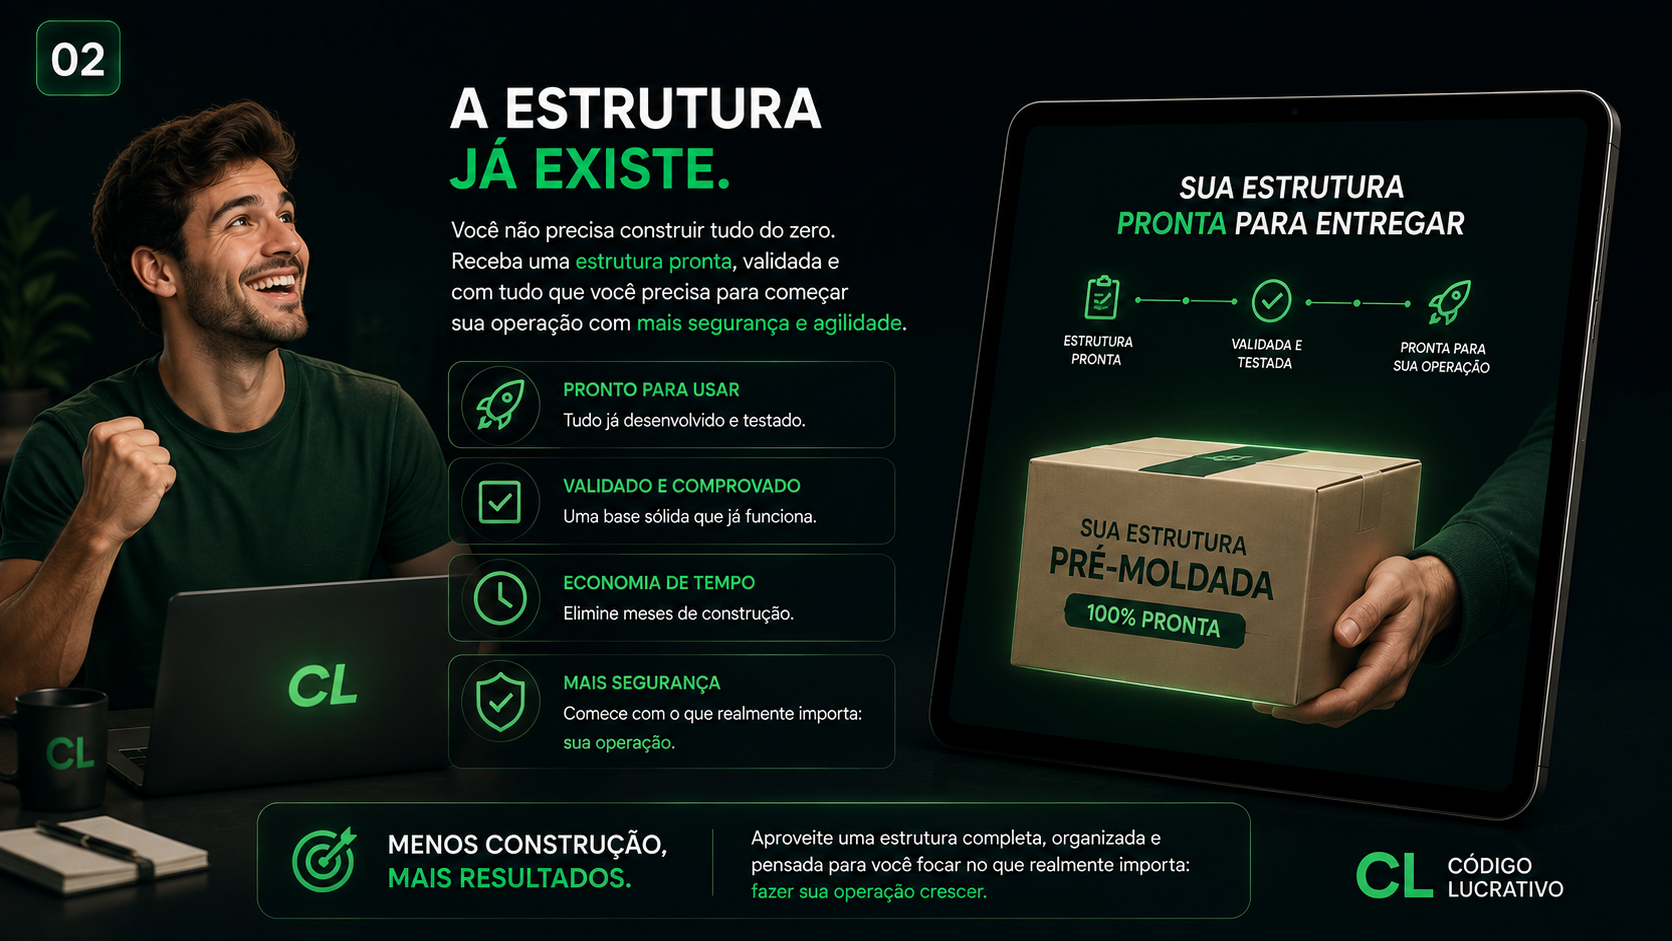
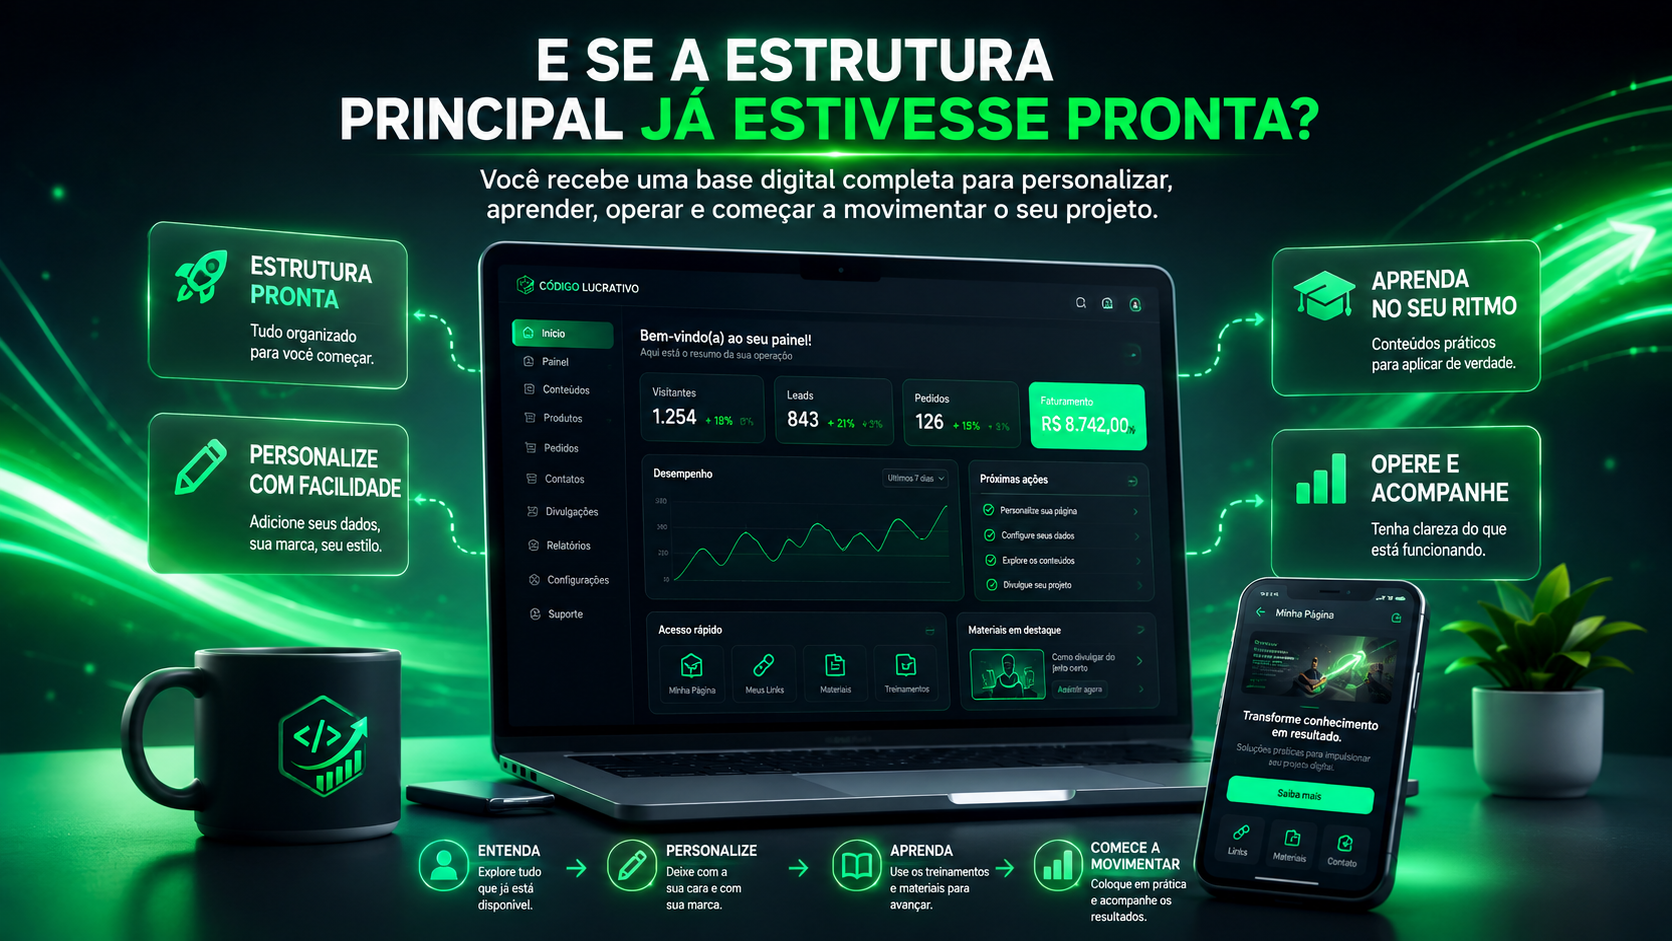
fix: repair dev image uploads and sync sales assets

diff --git a/server/demoAuth.ts b/server/demoAuth.ts
@@ -1,10 +1,10 @@
-import { randomUUID } from "node:crypto";
+import { createHmac, timingSafeEqual } from "node:crypto";
 import { z } from "zod";
 import type { User } from "../drizzle/schema";
 import { getStoredPasswordHashByOpenId } from "./db";
 import { hashDemoCredential, hashPassword, hashesMatch } from "./credentialHash";
 
-export const DEMO_SESSION_COOKIE_NAME = "pl_demo_session";
+export const DEMO_SESSION_COOKIE_NAME = process.env.VITE_DEV_PREFIX ? "pl_demo_session_dev" : "pl_demo_session";
 
 export const demoLoginInputSchema = z.object({
   username: z.string().trim().min(1, "Informe o usuário.").max(64),
@@ -19,13 +19,14 @@ export type DemoAccount = {
   role: "admin" | "user";
 };
 
-type DemoSession = {
-  account: DemoAccount;
+type DemoSessionPayload = {
+  openId: string;
+  role: DemoAccount["role"];
   expiresAt: number;
 };
 
 const DEMO_SESSION_DURATION_MS = 1000 * 60 * 60 * 12;
-const activeDemoSessions = new Map<string, DemoSession>();
+const DEMO_SESSION_SECRET = process.env.JWT_SECRET || "pagina-lucrativa-local-demo-session";
 
 type StoredDemoAccount = DemoAccount & { credentialHash: string };
 
@@ -47,6 +48,29 @@ const demoAccounts: StoredDemoAccount[] = [
[1 lines of base64/hex data omitted]
   },
 ];
+
+function signSessionPayload(payload: DemoSessionPayload) {
+  const encodedPayload = Buffer.from(JSON.stringify(payload)).toString("base64url");
+  const signature = createHmac("sha256", DEMO_SESSION_SECRET).update(encodedPayload).digest("base64url");
+  return `${encodedPayload}.${signature}`;
+}
+
+function readSessionPayload(token: string): DemoSessionPayload | null {
+  const [encodedPayload, encodedSignature] = token.split(".");
+  if (!encodedPayload || !encodedSignature) return null;
+
+  const expectedSignature = createHmac("sha256", DEMO_SESSION_SECRET).update(encodedPayload).digest();
+  const receivedSignature = Buffer.from(encodedSignature, "base64url");
+  if (receivedSignature.length !== expectedSignature.length || !timingSafeEqual(receivedSignature, expectedSignature)) return null;
+
+  try {
+    const payload = JSON.parse(Buffer.from(encodedPayload, "base64url").toString("utf8")) as Partial<DemoSessionPayload>;
+    if (typeof payload.openId !== "string" || (payload.role !== "admin" && payload.role !== "user") || typeof payload.expiresAt !== "number" || payload.expiresAt <= Date.now()) return null;
+    return payload as DemoSessionPayload;
+  } catch {
+    return null;
+  }
+}
 
 export async function resolveDemoAccount(username: string, password: string): Promise<DemoAccount | null> {
   const normalizedUsername = username.trim().toLowerCase();
@@ -78,21 +102,17 @@ export function toDemoUser(account: DemoAccount): User {
 }
 
 export function createDemoSession(account: DemoAccount) {
-  const token = randomUUID();
-  activeDemoSessions.set(token, {
-    account,
+  return signSessionPayload({
+    openId: account.openId,
+    role: account.role,
     expiresAt: Date.now() + DEMO_SESSION_DURATION_MS,
   });
-  return token;
 }
 
 export function resolveDemoSession(token: string | undefined) {
   if (!token) return null;
-  const session = activeDemoSessions.get(token);
-  if (!session) return null;
-  if (session.expiresAt <= Date.now()) {
-    activeDemoSessions.delete(token);
-    return null;
-  }
-  return toDemoUser(session.account);
+  const payload = readSessionPayload(token);
+  if (!payload) return null;
+  const account = demoAccounts.find(candidate => candidate.openId === payload.openId && candidate.role === payload.role);
+  return account ? toDemoUser(account) : null;
 }

diff --git a/shared/publicSalesSections.ts b/shared/publicSalesSections.ts
@@ -81,7 +81,7 @@ export const PUBLIC_SALES_SECTIONS = [
     title: "O que você teria de montar se começasse sozinho?",
     body: [
       "Produto ou oferta, site, landing page, área do usuário, autenticação, banco de dados, sistema de pedidos, links, campanhas, materiais, treinamento, painel e acompanhamento.",
-      "É justamente essa etapa de construção que a Página Lucrativa reduz: você começa com uma estrutura existente e dedica sua energia a entender, personalizar, divulgar e desenvolver sua operação.",
+      "É justamente essa etapa de construção que a Página Lucrativa reduz: você começa com uma estrutura existente e dedica sua energia a entender, personalizar, automatizar, divulgar e desenvolver sua operação.",
     ],
     defaultImage: "/comparison.png",
     defaultAlt: "Comparação entre construir componentes desconectados sozinho e operar uma estrutura digital organizada",

diff --git a/server/demoAuth.test.ts b/server/demoAuth.test.ts
@@ -15,9 +15,11 @@ describe("resolveDemoAccount", () => {
     expect(await resolveDemoAccount("desconhecido", "123")).toBeNull();
   });
 
-  it("emite uma sessão local resolvida sem OAuth", async () => {
+  it("emite uma sessão local assinada que não depende da memória do processo", async () => {
     const account = await resolveDemoAccount("admin", "123");
     const token = createDemoSession(account!);
+    expect(token.split(".")).toHaveLength(2);
     expect(resolveDemoSession(token)).toMatchObject({ openId: "local_demo_admin", role: "admin", loginMethod: "local_demo" });
+    expect(resolveDemoSession(`${token}invalid`)).toBeNull();
   });
 });

diff --git a/server/_core/cookies.test.ts b/server/_core/cookies.test.ts
@@ -28,4 +28,12 @@ describe("getSessionCookieOptions", () => {
       secure: true,
     });
   });
+
+  it("isolates development sessions under the /dev path", () => {
+    const previousPrefix = process.env.VITE_DEV_PREFIX;
+    process.env.VITE_DEV_PREFIX = "/dev";
+    expect(getSessionCookieOptions(request("https"))).toMatchObject({ path: "/dev" });
+    if (previousPrefix === undefined) delete process.env.VITE_DEV_PREFIX;
+    else process.env.VITE_DEV_PREFIX = previousPrefix;
+  });
 });

diff --git a/server/_core/cookies.ts b/server/_core/cookies.ts
@@ -40,10 +40,11 @@ export function getSessionCookieOptions(
   //       : undefined;
 
   const secure = isSecureRequest(req);
+  const cookiePath = process.env.VITE_DEV_PREFIX || "/";
 
   return {
     httpOnly: true,
-    path: "/",
+    path: cookiePath,
     // Browsers reject SameSite=None without Secure. The dedicated preview is
     // intentionally served by HTTP on an IP address, so use Lax in that case.
     sameSite: secure ? "none" : "lax",
